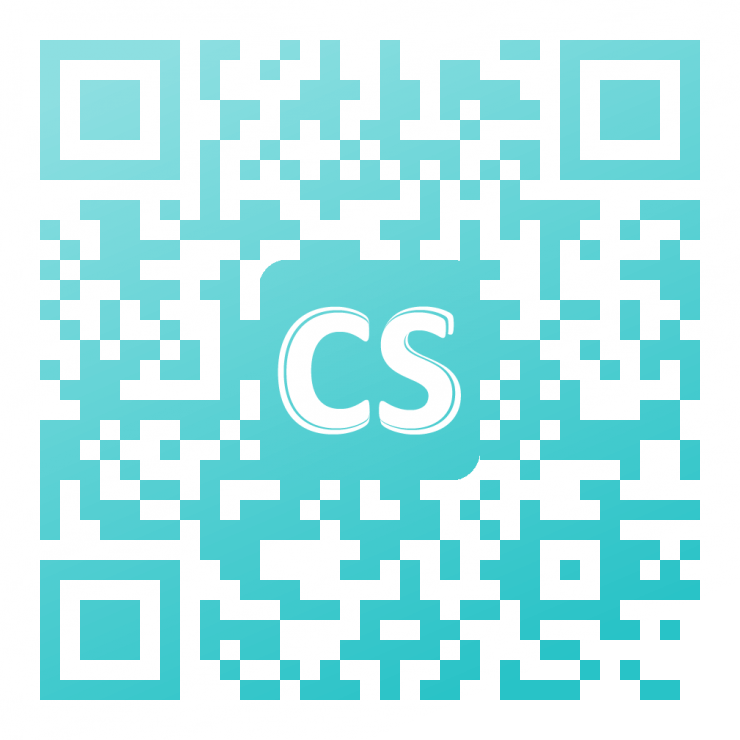
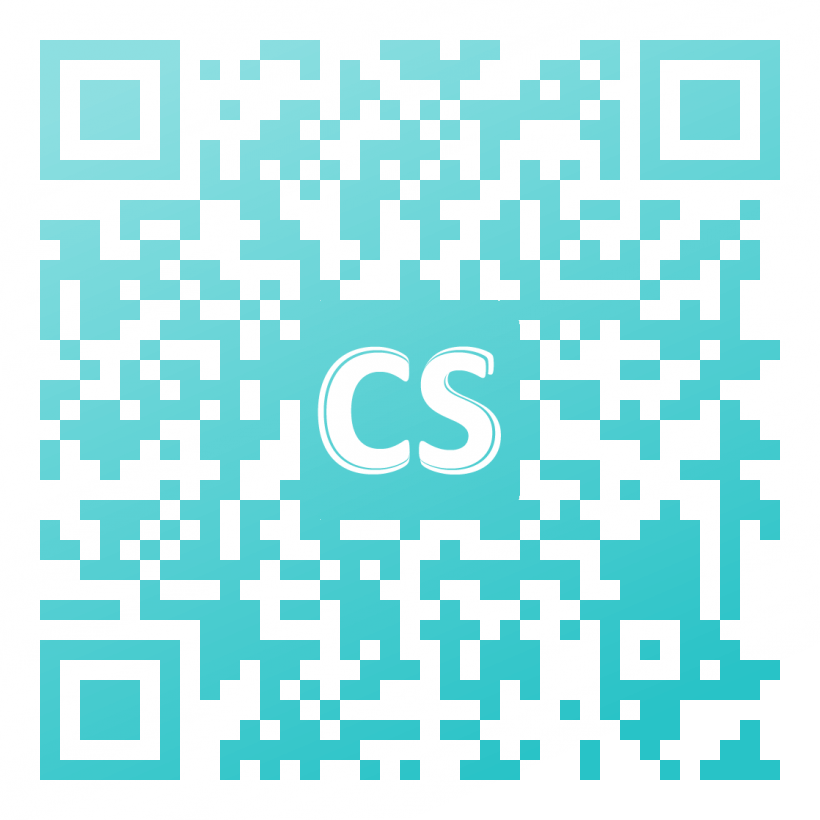
update picture and qr code

diff --git a/index.html b/index.html
@@ -12,7 +12,7 @@ title: ConnecSync
 <table class="table-responsive" border="0">
     <tbody>
         <tr>
-        	<td rowspan="4"><img class="img-responsive" src="./graphics/angie_cv_photo.jpg" width="120px" height="160px"></td>
+        	<td rowspan="4"><img class="img-responsive" src="./graphics/shihhor.png" width="120px" height="160px"></td>
             <td>Email: angie@connecsync.com</td>
         </tr>
         <tr>

diff --git a/thankyou.html b/thankyou.html
@@ -10,7 +10,7 @@ $(document).ready(function(){
 	  $("#msg").text("Request sent");
 	});
 	$( "#sync" ).click(function() {
-	  window.location = "./graphics/Angie.vcf"
+	  window.location = "./graphics/shihhor-vcf.vcf"
 	});
 });
 </script>
